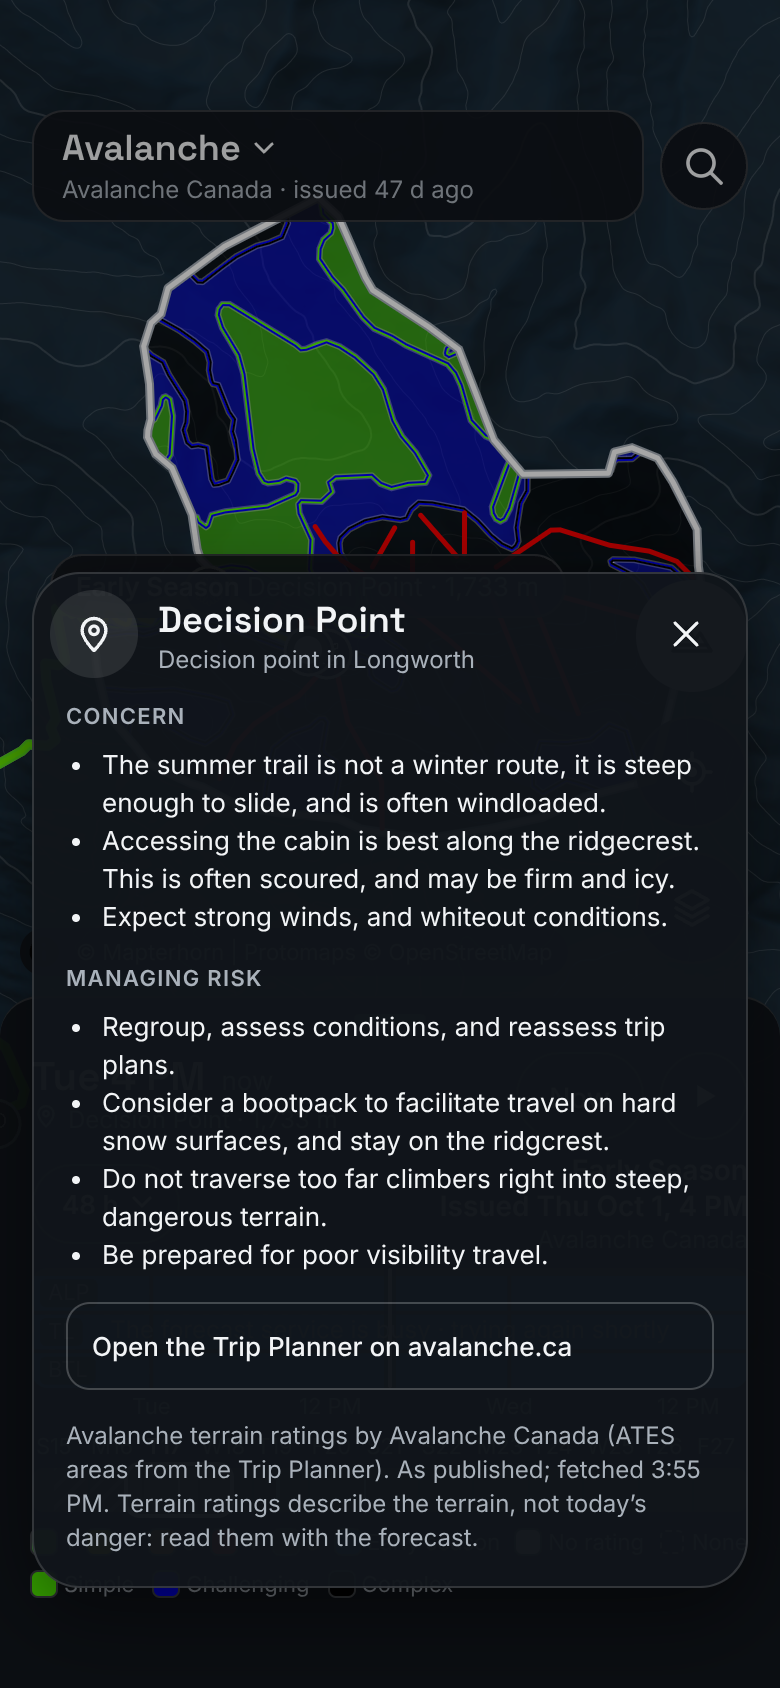
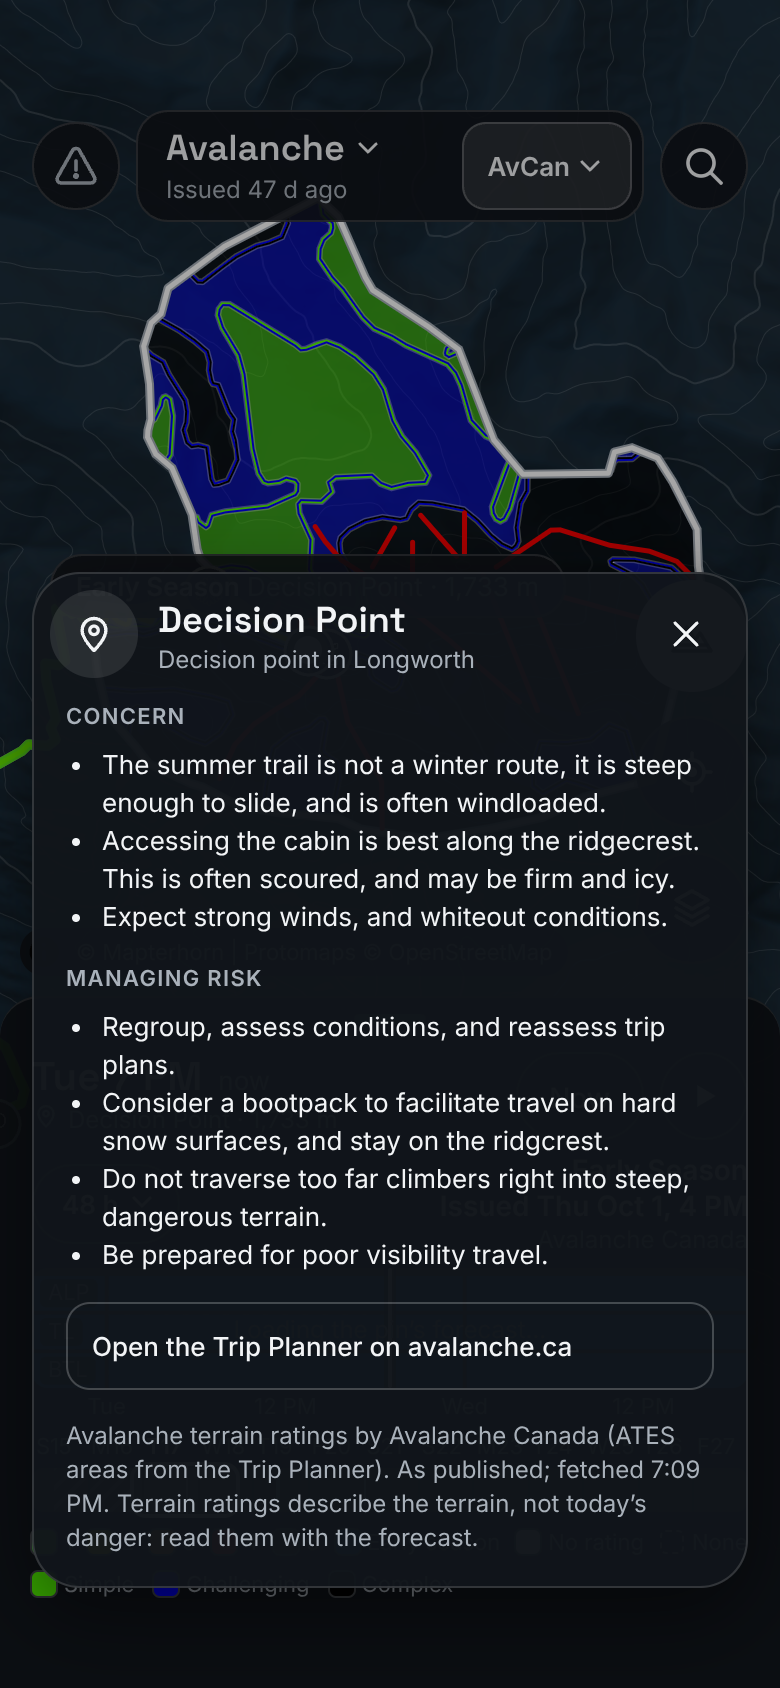
Alert button always in the top bar; avalanche age line fits beside the source button
The alert button stays visible: grey without a count when nothing is in
force, warning colour with a count otherwise; with none its panel says so.
The run-age line now ellipsizes within the title, and on the avalanche layer
reads 'Issued …' since the source button names Avalanche Canada.

Claude-Session: https://claude.ai/code/session_01U8H2ddcm2u1WoueZwDjoFv

Changed region(s): [[0.0615, 0.0616, 0.4923, 0.1232], [0.5538, 0.0924, 0.7385, 0.1232], [0.8308, 0.8626, 0.8923, 0.8934]]

diff --git a/app/alerts/alerts.ts b/app/alerts/alerts.ts
@@ -71,9 +71,11 @@ function render(): void {
   if (!badge) return;
   const s = shown();
   const n = s?.list.length ?? 0;
-  badge.hidden = n === 0;
-  badge.querySelector('.alert-count')!.textContent = String(n);
-  badge.setAttribute('aria-label', `${n} weather ${n === 1 ? 'alert' : 'alerts'} at the pin`);
+  // Always in the top bar (v8 01); the count and the warning colour only when alerts are in force.
+  badge.hidden = false;
+  badge.dataset.count = String(n);
+  badge.querySelector('.alert-count')!.textContent = n ? String(n) : '';
+  badge.setAttribute('aria-label', n ? `${n} weather ${n === 1 ? 'alert' : 'alerts'} at the pin` : 'Weather alerts: none at the pin');
   // For tests: 'pending' until there is an answer for the place.
   document.body.dataset.alerts = s ? String(n) : 'pending';
 }
@@ -113,16 +115,24 @@ function row(a: IssuedAlert): HTMLElement {
 function openAlerts(): void {
   const now = new Date();
   const s = shown(now);
-  if (!badge || !s) return;
+  if (!badge) return;
   const body = document.createElement('div');
   body.className = 'panel-groups';
   const list = document.createElement('div');
   list.className = 'group alert-list';
-  for (const a of s.list) list.append(row(a));
+  if (s) for (const a of s.list) list.append(row(a));
+  if (!s?.list.length) {
+    const none = document.createElement('p');
+    none.className = 'alert-none';
+    none.textContent = s ? 'No alerts in force at the pin.'
+      : !navigator.onLine || savedOnlyActive() ? 'Alerts need a connection. None checked for this place yet.'
+      : 'Checking Environment Canada…';
+    list.append(none);
+  }
   const foot = document.createElement('p');
   foot.className = 'panel-note alert-source';
-  foot.textContent = `${source.publisher} · ${fetchedText(s.answer, now)}`;
-  if (s.answer.failed) foot.textContent += '. Could not reach ECCC just now; this is the last answer.';
+  foot.textContent = s ? `${source.publisher} · ${fetchedText(s.answer, now)}` : source.publisher;
+  if (s?.answer.failed) foot.textContent += '. Could not reach ECCC just now; this is the last answer.';
   body.append(list, foot);
   openPanel({
     origin: badge,

diff --git a/app/shell/shell.css b/app/shell/shell.css
@@ -69,7 +69,7 @@ button:focus-visible { outline: 2px solid var(--ink); outline-offset: 2px; }
 .layer-chevron { flex: 0 0 auto; display: flex; color: var(--ink); }
 .model-chevron { display: flex; margin-left: 2px; }
 .layer-name { font: var(--type-panel-title); line-height: 22px; white-space: nowrap; overflow: hidden; text-overflow: ellipsis; }
-.run-age { font: var(--type-caption); line-height: 16px; color: var(--ink-2); white-space: nowrap; overflow: hidden; text-overflow: ellipsis; }
+.run-age { max-width: 100%; font: var(--type-caption); line-height: 16px; color: var(--ink-2); white-space: nowrap; overflow: hidden; text-overflow: ellipsis; }
 .run-age[data-stale='true'] { color: var(--warning); }
 .model-pill {
   flex: 0 0 auto; height: var(--touch-min); padding: 0 12px;
@@ -524,6 +524,9 @@ body[data-save-mode='true'] .maplibregl-marker { visibility: hidden; }
   display: flex; align-items: center; justify-content: center; color: var(--warning);
 }
 .alert-badge[hidden] { display: none; }
+.alert-badge[data-count='0'] { color: var(--ink-2); }
+.alert-count:empty { display: none; }
+.alert-none { font: var(--type-body); color: var(--ink-2); padding: 4px 0; }
 .alert-icon { display: flex; }
 .alert-count {
   position: absolute; top: -6px; right: -6px; min-width: 20px; height: 20px; padding: 0 5px;

diff --git a/e2e/alerts.spec.ts b/e2e/alerts.spec.ts
@@ -72,10 +72,19 @@ test('alerts at the pin: badge with the count, panel with one row per alert as i
   await page.screenshot({ path: 'test-results/screens/m9-alerts.png' });
 });
 
-test('no alerts at the pin: no badge', async ({ page, context }) => {
+test('no alerts at the pin: a plain badge with no count, and a panel that says so', async ({ page, context }) => {
   const asked = await stub(context, fixture('north-shore-2026-11-17.json'));
   await page.goto('/?insets=47,34');
   await expect(page.locator('body')).toHaveAttribute('data-alerts', '0', { timeout: 45_000 });
   await expect.poll(() => asked.length).toBeGreaterThan(0);
-  await expect(page.locator('#alert-badge')).toBeHidden();
+  const badge = page.locator('#alert-badge');
+  await expect(badge).toBeVisible();
+  await expect(badge).toHaveAttribute('data-count', '0');
+  await expect(badge.locator('.alert-count')).toBeHidden();
+  await badge.click();
+  const panel = page.getByRole('dialog', { name: 'Weather alerts' });
+  await expect(panel.locator('.alert-none')).toHaveText('No alerts in force at the pin.');
+  await expect(panel.locator('.alert-source')).toContainText('Environment and Climate Change Canada');
+  await page.waitForTimeout(400);
+  await page.screenshot({ path: 'test-results/screens/m9-alerts-none.png' });
 });

diff --git a/e2e/avalanche.spec.ts b/e2e/avalanche.spec.ts
@@ -86,7 +86,7 @@ test('avalanche: regions coloured as issued, region forecast, report with photos
   const expected = now < Date.parse('2026-11-26T00:00:00Z') ? 'earlyseason' : 'none';
   expect(await regionValue(page, -123.08, 49.6)).toBe(expected);
   await expect(page.locator('#legend-row')).toContainText('Early season');
-  await expect(page.locator('#run-age')).toContainText('Avalanche Canada · issued');
+  await expect(page.locator('#run-age')).toContainText(/^Issued /);
   // The model button names the source; its menu lists Avalanche Canada only.
   await expect(page.locator('#model-pill')).toHaveText('AvCan');
   await page.locator('#model-pill').click();
@@ -231,5 +231,5 @@ test('avalanche: loads with "saved data only" on and nothing saved', async ({ pa
   });
   await pickAvalanche(page);
   expect(asked.some((a) => a.startsWith('/forecasts/en/products'))).toBe(true);
-  await expect(page.locator('#run-age')).toContainText('Avalanche Canada · issued');
+  await expect(page.locator('#run-age')).toContainText(/^Issued /);
 });

diff --git a/app/main.ts b/app/main.ts
@@ -444,7 +444,8 @@ function renderRunAge() {
     // Avalanche: the pin's bulletin and its age, not a model run.
     const pinNow = pin!.get()!;
     const a = avy.ageLine(pinNow.lng, pinNow.lat);
-    $('run-age').textContent = a.text;
+    // The source button names Avalanche Canada, so the line keeps the age.
+    $('run-age').textContent = a.text.replace(`${AVALANCHE_SOURCES[0]!.label} · issued `, 'Issued ');
     $('run-age').dataset.stale = String(a.stale);
     return;
   }

diff --git a/docs/reports/m9/report.md b/docs/reports/m9/report.md
@@ -16,7 +16,7 @@ I checked each one's work, combined them, fixed where they met, and reran the te
 
 ### Weather alerts
 
-- **Where:** a round warning button at the left end of the top bar, with a count, where v8 01 puts it. It appears only when Environment Canada has an alert in force at the pin.
+- **Where:** a round warning button at the left end of the top bar, where v8 01 puts it. It is always there (changed Nov 18 at Kaden's request): plain grey with no count when nothing is in force, the warning colour with a count when alerts are. With none, its panel says "No alerts in force at the pin." with the source and fetch time.
 - **Tapping it** opens one row per alert, exactly as Environment Canada issued it:
   - its title;
   - its colour and type ("Yellow warning");
